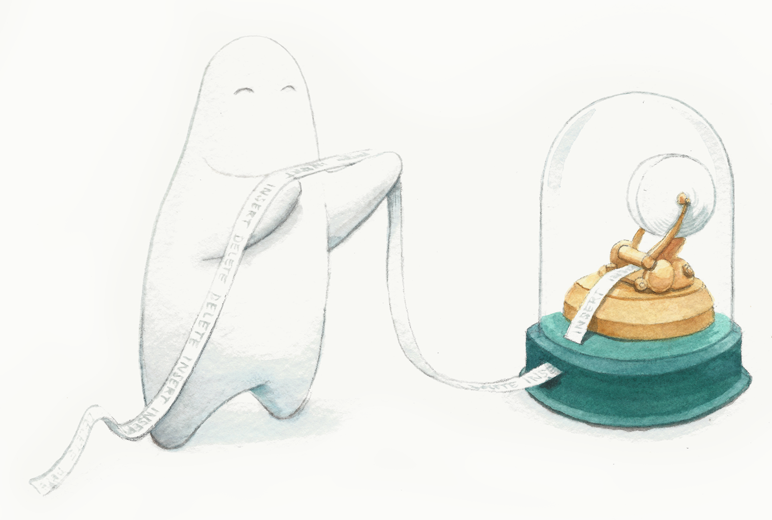
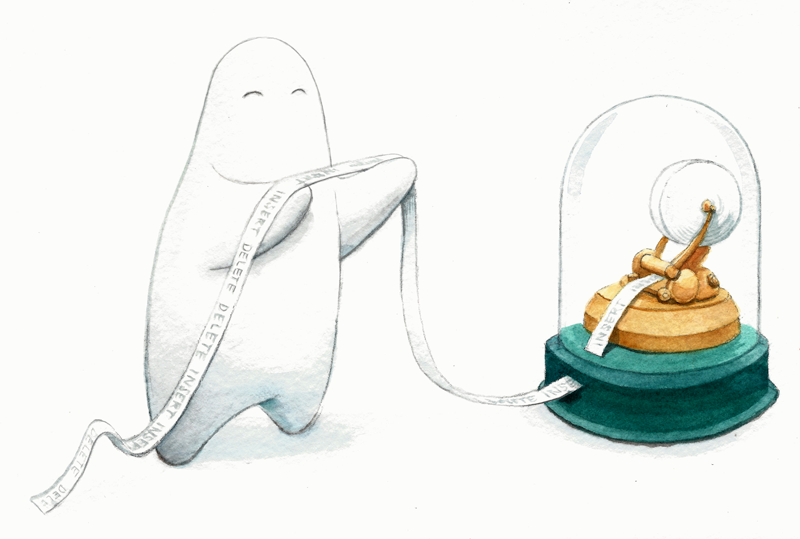
adjusted contrast on illo files

diff --git a/1-reql-language/secondary-indexes/javascript.md b/1-reql-language/secondary-indexes/javascript.md
@@ -4,7 +4,7 @@ title: Using secondary indexes in RethinkDB
 docs_active: secondary-indexes
 permalink: docs/secondary-indexes/javascript/
 switcher: true
-language : JavaScript 
+language : JavaScript
 js: [fancybox]
 ---
 
@@ -21,9 +21,6 @@ RethinkDB supports different types of secondary indexes:
 
 {% toctag %}
 
-<img src="/assets/images/docs/api_illustrations/secondary-indexes.png"
-     alt="Secondary Indexes Illustration"
-     class="api_command_illustration" />
 
 # Simple indexes #
 
@@ -242,7 +239,7 @@ Secondary indexes will not store `null` values or objects. Thus, the results of 
 r.table("users").indexCreate("group").run(conn, callback)
 r.table("users").orderBy({index: "group"}).run(conn, callback)
 ```
-    
+
 may be different from an equivalent command without an index:
 
 ```js

diff --git a/1-reql-language/dates-and-times/python.md b/1-reql-language/dates-and-times/python.md
@@ -23,7 +23,7 @@ Some highlights:
 {% toctag %}
 
 <img alt="Dates and Times Illustration" class="api_command_illustration"
-     src="/assets/images/docs/api_illustrations/datesntimes.png" />
+     src="/assets/images/docs/api_illustrations/dates-and-times.png" />
 
 # A quick example #
 
@@ -62,7 +62,7 @@ We can now filter based on these times:
 > r.table('events').filter(r.row['timestamp'].hours() > 20).run(conn)
 [{u'id': 1,
   u'timestamp': datetime.datetime(2013, 8, 13, 23, 32, 49, 923000, tzinfo=<rethinkdb.ast.RqlTzinfo object at 0x102cbde90>)}]
-  
+
 > r.table('events').filter(r.row['timestamp'].in_timezone('-02:00').hours() > 20).run(conn)
 [{u'id': 0,
   u'timestamp': datetime.datetime(2015, 2, 2, 11, 56, 31, 250000, tzinfo=<rethinkdb.ast.RqlTzinfo object at 0x102ca0c50>)},

diff --git a/1-reql-language/guide/ruby.md b/1-reql-language/guide/ruby.md
@@ -16,7 +16,7 @@ __Before you start:__
 * Read the [thirty-second quickstart](/docs/quickstart/).
 {% endinfobox %}
 
-<img src="/assets/images/docs/api_illustrations/10-minute-guide-ruby.png" class="api_command_illustration" />
+<img src="/assets/images/docs/api_illustrations/10-minute-guide.png" class="api_command_illustration" />
 
 # Import the driver #
 
@@ -369,7 +369,7 @@ is:
 ```
 
 
-{% include docs/quickstart-footer.md %} 
+{% include docs/quickstart-footer.md %}
 
 __Note:__ The RethinkDB Ruby driver includes support for asynchronous connections using EventMachine. Read the [asynchronous connections][ac] documentation for more information.
 

diff --git a/1-reql-language/dates-and-times/javascript.md b/1-reql-language/dates-and-times/javascript.md
@@ -23,7 +23,7 @@ Some highlights:
 {% toctag %}
 
 <img alt="Dates and Times Illustration" class="api_command_illustration"
-     src="/assets/images/docs/api_illustrations/datesntimes.png" />
+     src="/assets/images/docs/api_illustrations/dates-and-times.png" />
 
 # A quick example #
 
@@ -94,7 +94,7 @@ Leap-seconds aren't well-supported right now: `2012-06-30T23:59:60` and
 
 # Inserting times #
 
-You can insert times by simply passing a native `Date` object. 
+You can insert times by simply passing a native `Date` object.
 
 ```js
 > r.table('events').insert({id: 2, timestamp: new Date()}).run(conn, callback);

diff --git a/1-reql-language/guide/javascript.md b/1-reql-language/guide/javascript.md
@@ -15,7 +15,7 @@ __Before you start:__
 * Read the [thirty-second quickstart](/docs/quickstart/).
 {% endinfobox %}
 
-<img src="/assets/images/docs/api_illustrations/10-minute-guide_javascript.png" class="api_command_illustration" />
+<img src="/assets/images/docs/api_illustrations/10-minute-guide.png" class="api_command_illustration" />
 
 # Import the driver #
 
@@ -411,4 +411,4 @@ is:
 }
 ```
 
-{% include docs/quickstart-footer.md %} 
+{% include docs/quickstart-footer.md %}

diff --git a/1-reql-language/changefeeds/javascript.md b/1-reql-language/changefeeds/javascript.md
@@ -12,7 +12,7 @@ language: JavaScript
 
 {% toctag %}
 
-They allow clients to receive changes on a table, a single document, or even the results from a specific query as they happen. 
+They allow clients to receive changes on a table, a single document, or even the results from a specific query as they happen.
 
 <img alt="Data Modeling Illustration" class="api_command_illustration"
     src="/assets/images/docs/api_illustrations/change-feeds.png" />

diff --git a/1-reql-language/changefeeds/python.md b/1-reql-language/changefeeds/python.md
@@ -12,7 +12,7 @@ language: Python
 
 {% toctag %}
 
-They allow clients to receive changes on a table, a single document, or even the results from a specific query as they happen. 
+They allow clients to receive changes on a table, a single document, or even the results from a specific query as they happen.
 
 <img alt="Data Modeling Illustration" class="api_command_illustration"
     src="/assets/images/docs/api_illustrations/change-feeds.png" />

diff --git a/1-reql-language/changefeeds/ruby.md b/1-reql-language/changefeeds/ruby.md
@@ -12,7 +12,7 @@ language: Ruby
 
 {% toctag %}
 
-They allow clients to receive changes on a table, a single document, or even the results from a specific query as they happen. 
+They allow clients to receive changes on a table, a single document, or even the results from a specific query as they happen.
 
 <img alt="Data Modeling Illustration" class="api_command_illustration"
     src="/assets/images/docs/api_illustrations/change-feeds.png" />

diff --git a/1-reql-language/guide/python.md b/1-reql-language/guide/python.md
@@ -20,7 +20,7 @@ language: Python
 From version 1.14, the Python driver for RethinkDB supports Python 2 and 3. Version 1.13 and older support Python 2 only.
 {% endinfobox %}
 
-<img src="/assets/images/docs/api_illustrations/10-minute-guide-python.png" class="api_command_illustration" />
+<img src="/assets/images/docs/api_illustrations/10-minute-guide.png" class="api_command_illustration" />
 
 # Import the driver #
 

diff --git a/api/javascript/writing-data/replace.md b/api/javascript/writing-data/replace.md
@@ -27,8 +27,6 @@ singleSelection.replace(object | function[, {durability: "hard", returnChanges: 
     &rarr; object
 {% endapibody %}
 
-<img src="/assets/images/docs/api_illustrations/replace.png" class="api_command_illustration" />
-
 # Description #
 
 Replace documents in a table. Accepts a JSON document or a ReQL expression,

diff --git a/api/python/writing-data/replace.md b/api/python/writing-data/replace.md
@@ -20,8 +20,6 @@ singleSelection.replace(object | function[, durability="hard", return_changes=Fa
     &rarr; object
 {% endapibody %}
 
-<img src="/assets/images/docs/api_illustrations/replace.png" class="api_command_illustration" />
-
 # Description #
 
 Replace documents in a table. Accepts a JSON document or a ReQL expression,

diff --git a/api/ruby/writing-data/replace.md b/api/ruby/writing-data/replace.md
@@ -21,8 +21,6 @@ singleSelection.replace(object | function[, :durability => "hard", :return_chang
     &rarr; object
 {% endapibody %}
 
-<img src="/assets/images/docs/api_illustrations/replace.png" class="api_command_illustration" />
-
 # Description #
 
 Replace documents in a table. Accepts a JSON document or a ReQL expression,
